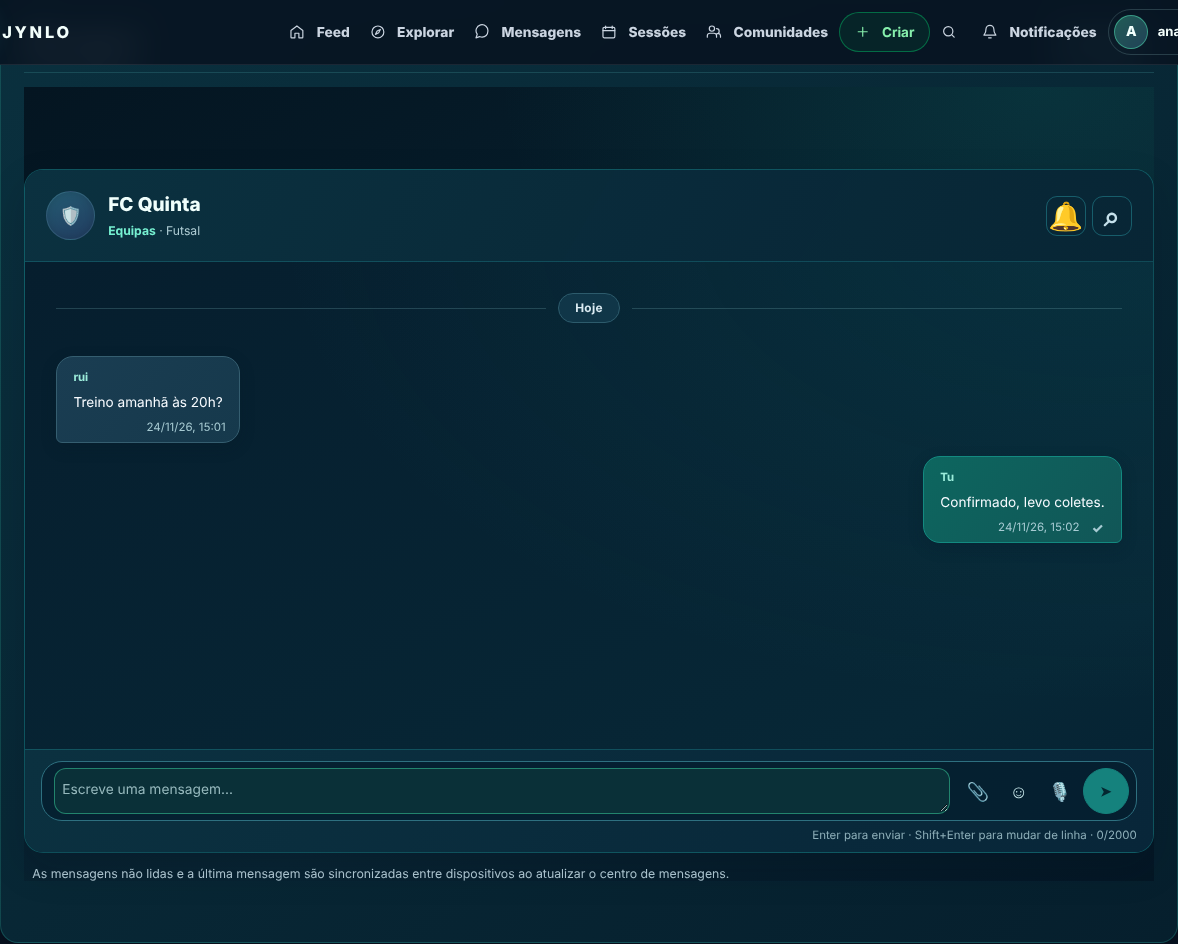
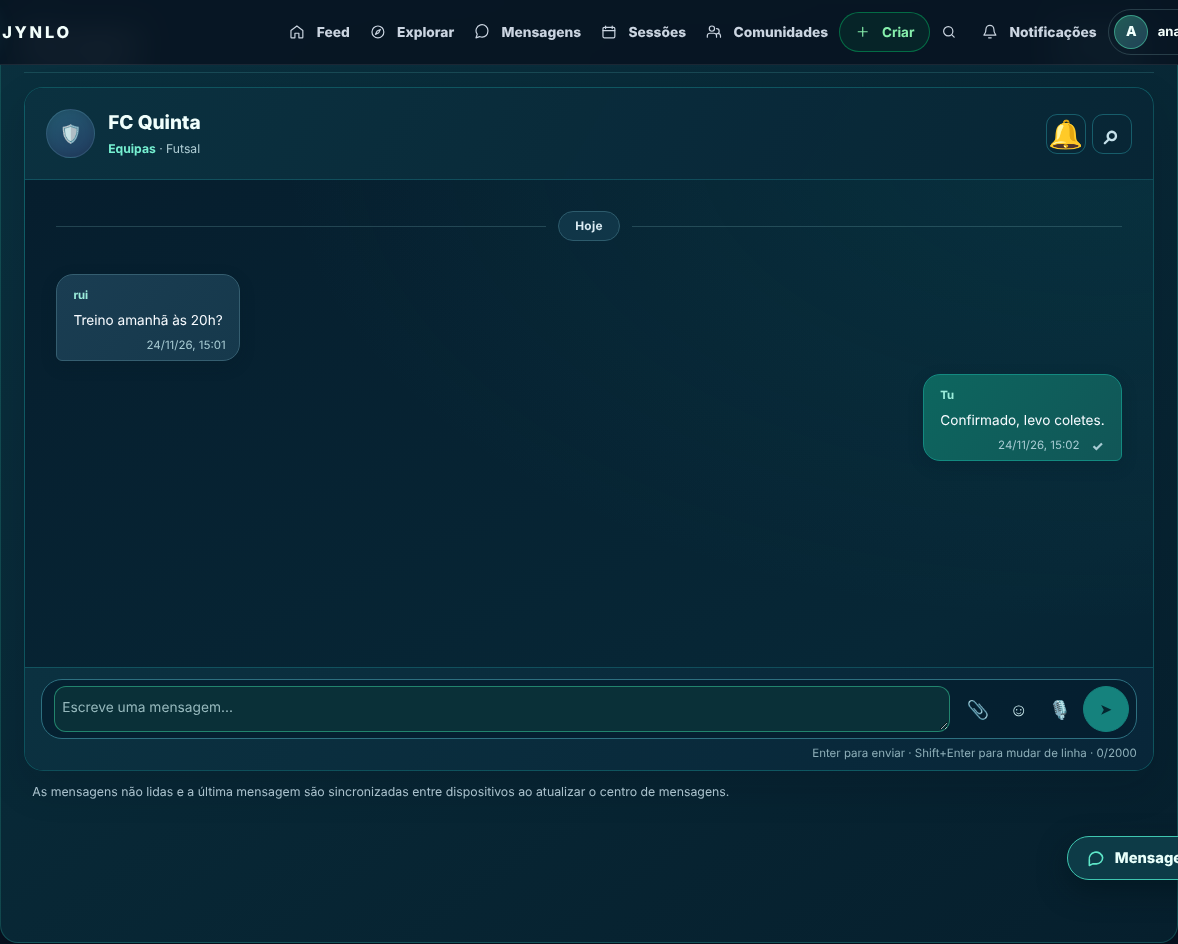
Floating Messages window (desktop): chat from any page without leaving it; embedded chats without page padding
Claude-Session: https://claude.ai/code/session_01NCG6nkiBEPLc5cBAmUeyUP

diff --git a/src/app/shared/chat-dock/chat-dock.component.ts b/src/app/shared/chat-dock/chat-dock.component.ts
@@ -1,0 +1,105 @@
+import { ChangeDetectionStrategy, Component, HostListener, OnDestroy, OnInit } from '@angular/core';
+import { NavigationEnd, Router, RouterLink } from '@angular/router';
+import { filter, Subscription } from 'rxjs';
+import { TranslatePipe } from '../../i18n/translate.pipe';
+import { AuthenticationService } from '../../services/authethication.service';
+import { MessagesCenterComponent } from '../../pages/messages-center/messages-center.component';
+
+const OPEN_KEY = 'jynlo-chat-dock-open';
+const MIN_WIDTH = 1024;
+
+/**
+ * A small Messages window in the bottom-right corner (desktop only), so a chat
+ * can be used without leaving the page. It is the same inbox, in a compact mode.
+ */
+@Component({
+  selector: 'app-chat-dock',
+  standalone: true,
+  imports: [TranslatePipe, RouterLink, MessagesCenterComponent],
+  changeDetection: ChangeDetectionStrategy.Eager,
+  template: `
+    @if (available) {
+      @if (!open) {
+        <button type="button" class="chat-dock-pill" (click)="toggle(true)" [attr.aria-label]="'Abrir mensagens' | t">
+          <svg viewBox="0 0 24 24" fill="none" stroke="currentColor" stroke-width="1.9" stroke-linecap="round" stroke-linejoin="round" aria-hidden="true">
+            <path d="M20 11.5a7.5 7.5 0 0 1-7.5 7.5H8l-4 2v-6.3A7.5 7.5 0 1 1 20 11.5Z"/></svg>
+          <span>{{ 'Mensagens' | t }}</span>
+        </button>
+      }
+      @if (started) {
+        <section class="chat-dock" [hidden]="!open" role="dialog" [attr.aria-label]="'Mensagens' | t">
+          <header class="chat-dock__head">
+            <strong>{{ 'Mensagens' | t }}</strong>
+            <a class="chat-dock__icon" routerLink="/menu/messages" (click)="toggle(false)"
+              [attr.aria-label]="'Abrir em ecrã inteiro' | t" [title]="'Abrir em ecrã inteiro' | t">
+              <svg viewBox="0 0 24 24" fill="none" stroke="currentColor" stroke-width="1.9" stroke-linecap="round" aria-hidden="true">
+                <path d="M4 9V4h5M20 9V4h-5M4 15v5h5M20 15v5h-5"/></svg></a>
+            <button type="button" class="chat-dock__icon" (click)="toggle(false)"
+              [attr.aria-label]="'Minimizar' | t" [title]="'Minimizar' | t">
+              <svg viewBox="0 0 24 24" fill="none" stroke="currentColor" stroke-width="2" stroke-linecap="round" aria-hidden="true">
+                <path d="M6 6l12 12M18 6 6 18"/></svg></button>
+          </header>
+          <div class="chat-dock__body"><app-messages-center [dock]="true"></app-messages-center></div>
+        </section>
+      }
+    }
+  `,
+  styles: [`
+    :host{position:fixed;right:20px;bottom:20px;z-index:900;display:block}
+    .chat-dock-pill{display:inline-flex;align-items:center;gap:9px;padding:11px 18px;border-radius:999px;cursor:pointer;
+      border:1px solid #3fc6b0;background:#0d3b47;color:#e8fffa;font-weight:800;font-size:.92rem;
+      box-shadow:0 10px 28px #00121a88}
+    .chat-dock-pill:hover{background:#145564}
+    .chat-dock-pill svg{width:20px;height:20px;color:#5ee6c8}
+    .chat-dock{width:380px;height:min(600px,calc(100vh - 110px));display:flex;flex-direction:column;overflow:hidden;
+      border:1px solid #2f7380;border-radius:18px;background:#0a2734;box-shadow:0 18px 48px #00101899}
+    .chat-dock[hidden]{display:none}
+    .chat-dock__head{display:flex;align-items:center;gap:6px;padding:10px 10px 10px 16px;border-bottom:1px solid #24525e}
+    .chat-dock__head strong{flex:1;color:#f2fdff;font-size:1rem}
+    .chat-dock__icon{width:34px;height:34px;display:grid;place-items:center;border-radius:10px;border:0;background:transparent;
+      color:#d5f3ef;cursor:pointer}
+    .chat-dock__icon:hover{background:#174b56}
+    .chat-dock__icon svg{width:19px;height:19px}
+    .chat-dock__body{flex:1;min-height:0;overflow:hidden}
+    .chat-dock__body > app-messages-center{display:block;height:100%}
+  `]
+})
+export class ChatDockComponent implements OnInit, OnDestroy {
+  open = false;
+  /** The inbox is created on first open, and then kept so drafts and the chosen chat survive. */
+  started = false;
+  available = false;
+  private url = '';
+  private sub?: Subscription;
+
+  constructor(private readonly router: Router, private readonly auth: AuthenticationService) {}
+
+  ngOnInit(): void {
+    this.url = this.router.url;
+    this.sub = this.router.events.pipe(filter(event => event instanceof NavigationEnd))
+      .subscribe(event => { this.url = (event as NavigationEnd).urlAfterRedirects; this.refresh(); });
+    let remembered = false;
+    try { remembered = sessionStorage.getItem(OPEN_KEY) === '1'; } catch { /* private mode */ }
+    this.refresh();
+    if (remembered && this.available) this.toggle(true);
+  }
+
+  ngOnDestroy(): void { this.sub?.unsubscribe(); }
+
+  @HostListener('window:resize')
+  refresh(): void {
+    const wide = typeof window !== 'undefined' && window.innerWidth >= MIN_WIDTH;
+    const onMessages = /^\/menu\/messages(\/|\?|$)/.test(this.url);
+    const guestPage = /^\/(login|register|welcome)(\/|\?|$)/.test(this.url);
+    const signedIn = this.auth.isLoggedIn();
+    this.available = wide && signedIn && !onMessages && !guestPage;
+    // Leaving the page for the full Messages screen ends this copy of the inbox.
+    if (!this.available) { this.started = false; this.open = false; }
+  }
+
+  toggle(open: boolean): void {
+    this.open = open;
+    if (open) this.started = true;
+    try { sessionStorage.setItem(OPEN_KEY, open ? '1' : '0'); } catch { /* ignore */ }
+  }
+}

diff --git a/src/app/pages/messages-center/messages-center-embedded.css b/src/app/pages/messages-center/messages-center-embedded.css
@@ -90,3 +90,29 @@
 }
 /* Footer shortcuts wrap instead of cutting "As minhas comunidades". */
 .inbox-side-footer a{white-space:normal;text-align:center;line-height:1.25;min-width:0}
+
+/* Floating chat window: one column, list first, then the chosen conversation. */
+.inbox-page.inbox-dock{min-height:0;height:100%;padding:0;background:transparent}
+.inbox-dock .inbox-shell{max-width:none;width:100%;height:100%}
+.inbox-dock .inbox-layout{display:block;height:100%;min-height:0;border:0;border-radius:0;box-shadow:none}
+.inbox-dock .inbox-sidebar{height:100%;max-height:none;border:0;border-radius:0;display:flex;flex-direction:column}
+.inbox-dock .inbox-side-heading,.inbox-dock .inbox-side-footer,.inbox-dock .inbox-unread-note{display:none}
+.inbox-dock .inbox-side-top{padding:10px 12px 6px}
+.inbox-dock .inbox-filters{flex-wrap:nowrap;overflow-x:auto;scrollbar-width:none}
+.inbox-dock .inbox-detail{display:none}
+.inbox-dock.inbox-dock--open .inbox-sidebar{display:none}
+.inbox-dock.inbox-dock--open .inbox-detail{display:flex;flex-direction:column;height:100%;min-height:0;border:0;border-radius:0}
+.inbox-dock .inbox-detail-heading{padding:8px 10px;gap:8px;flex-wrap:nowrap}
+.inbox-dock .inbox-message-log{min-height:0;max-height:none;flex:1 1 auto;padding:12px}
+.inbox-dock .inbox-composer{padding:8px 10px}
+.inbox-dock .inbox-composer-bottom{display:none}
+.inbox-dock .inbox-bubble{max-width:86%;min-width:90px}
+.inbox-dock-back{width:34px;height:34px;flex:none;display:grid;place-items:center;border-radius:50%;
+ border:1px solid #2e6672;background:transparent;color:#c7e6e9;font-size:1.05rem;cursor:pointer}
+.inbox-dock-back:hover{background:#1e5862}
+/* Embedded and floating copies live inside another page: no full-page padding or backdrop. */
+:host .inbox-page.jynlo-secondary.inbox-embedded,:host .inbox-page.jynlo-secondary.inbox-dock{padding:0;background:transparent}
+:host .inbox-page.jynlo-secondary.inbox-dock .inbox-shell,:host .inbox-page.jynlo-secondary.inbox-dock .inbox-layout{width:100%;height:100%;margin:0;border:0;border-radius:0;box-shadow:none;background:transparent}
+:host .inbox-page.jynlo-secondary.inbox-dock .inbox-sidebar,:host .inbox-page.jynlo-secondary.inbox-dock .inbox-detail{border:0;border-radius:0;box-shadow:none}
+:host .inbox-page.jynlo-secondary.inbox-dock{height:100%}
+.inbox-dock .inbox-sidebar .inbox-entries,.inbox-dock .inbox-sidebar app-inbox-conversation-list{flex:1 1 auto;min-height:0;overflow-y:auto}

diff --git a/src/app/pages/messages-center/messages-center.component.ts b/src/app/pages/messages-center/messages-center.component.ts
@@ -68,6 +68,8 @@ export class MessagesCenterComponent implements OnInit, OnDestroy, AfterViewChec
   @Input() embeddedCommunityId: number | null = null;
   /** Same for a team's "Mensagens" tab: the team chat is the Messages conversation. */
   @Input() embeddedTeamId: number | null = null;
+  /** Compact single-column mode for the floating chat window (list, then one conversation). */
+  @Input() dock = false;
   get embedded(): boolean { return this.embeddedCommunityId !== null || this.embeddedTeamId !== null; }
   private embeddedReady = false;
   ngOnChanges(changes: SimpleChanges): void {
@@ -1065,6 +1067,40 @@ export class MessagesCenterComponent implements OnInit, OnDestroy, AfterViewChec
     this.selectedKey = null;
     this.conversations = this.conversations.filter(item => item.key !== conversation.key);
     this.sessionKickoffs.delete(Number(conversation.id));
+  }
+
+  /** Dock mode: go back from a conversation to the list, keeping its draft. */
+  backToList(): void {
+    if (!this.selectedKey) return;
+    this.drafts.set(this.selectedKey, this.draft);
+    if (this.replyingTo?.key === this.selectedKey && this.replyingTo.id > 0)
+      this.replyDrafts.set(this.selectedKey, this.replyingTo);
+    ++this.mutationVersion;
+    this.cancelMessageMutation();
+    this.typing.stop();
+    this.cancelVoiceRecording();
+    this.closeEmojiPicker();
+    this.closeSharePicker();
+    this.closeAttachmentMenu();
+    this.setSelectedAttachment(null);
+    this.selectedGif = null;
+    this.selectedShare = null;
+    this.selectedCallUp = null;
+    this.selectedPoll = null;
+    this.clearAttachmentRetry();
+    this.attachmentReady = false;
+    ++this.attachmentViewVersion;
+    this.clearAttachmentPreviews();
+    ++this.selectionVersion;
+    ++this.composerVersion;
+    this.resetMessageSearch();
+    this.selectedKey = null;
+    this.messages = [];
+    this.draft = '';
+    this.replyingTo = null;
+    this.previewLoading = false;
+    this.previewError = false;
+    this.composerAllowed = false;
   }
 
   selectConversation(conversation: InboxConversation): void {

diff --git a/src/app/pages/messages-center/messages-center.component.html b/src/app/pages/messages-center/messages-center.component.html
@@ -1,4 +1,4 @@
-<section class="inbox-page jynlo-c1 jynlo-secondary" [class.inbox-embedded]="embedded">
+<section class="inbox-page jynlo-c1 jynlo-secondary" [class.inbox-embedded]="embedded" [class.inbox-dock]="dock" [class.inbox-dock--open]="dock && !!selected">
   <div class="inbox-shell">
     <div class="inbox-layout">
       <aside class="inbox-sidebar" [attr.aria-label]="'inbox.listLabel' | t">
@@ -90,6 +90,10 @@
       <main class="inbox-detail" [class.inbox-detail--empty]="!selected">
         @if (selected; as conversation) {
           <header class="inbox-detail-heading">
+            @if (dock) {
+              <button type="button" class="inbox-dock-back" (click)="backToList()"
+                [attr.aria-label]="'Voltar às conversas' | t" [title]="'Voltar às conversas' | t">←</button>
+            }
             @if (conversation.kind === 'direct') {
               <button type="button" class="inbox-chat-identity inbox-contact-opener"
                   [attr.aria-label]="('chat.viewProfile' | t) + ': ' + conversation.title"

diff --git a/src/app/i18n/translations-en.ts b/src/app/i18n/translations-en.ts
@@ -8101,6 +8101,10 @@ export const EN: Record<string, string> = {
   'Plantel por Excel': 'Squad from Excel',
   'Já tens o plantel noutro sítio?': 'Already have your squad somewhere else?',
   'Fotografias ou vídeos': 'Photos or videos',
+  'Abrir mensagens': 'Open messages',
+  'Abrir em ecrã inteiro': 'Open full screen',
+  'Minimizar': 'Minimise',
+  'Voltar às conversas': 'Back to conversations',
   'Colar lista': 'Paste a list',
   'Aceitamos Excel (.xlsx, .xls), LibreOffice (.ods), CSV e TSV. No Google Sheets ou no Numbers: Ficheiro → Transferir/Exportar → Excel ou CSV.': 'We accept Excel (.xlsx, .xls), LibreOffice (.ods), CSV and TSV. In Google Sheets or Numbers: File → Download/Export → Excel or CSV.',
   'Um jogador por linha, por exemplo «10 João Silva» ou «João Silva; 10; Defesa». Também podes colar células copiadas de uma folha de cálculo.': 'One player per line, for example “10 João Silva” or “João Silva; 10; Defender”. You can also paste cells copied from a spreadsheet.',

diff --git a/src/app/app.component.ts b/src/app/app.component.ts
@@ -119,6 +119,12 @@ export class AppComponent implements OnInit, AfterViewInit, OnDestroy {
     }).catch(() => {
       // A transient chunk download failure must not crash the rest of Jynlo.
     });
+    // The floating Messages window (desktop) is its own chunk, loaded after boot.
+    if (typeof window !== 'undefined' && window.innerWidth >= 1024) {
+      void import('./shared/chat-dock/chat-dock.component').then(({ChatDockComponent}) => {
+        if (!this.disposed && this.callOverlayOutlet) this.callOverlayOutlet.createComponent(ChatDockComponent);
+      }).catch(() => { /* optional convenience only */ });
+    }
   }
 
   ngOnDestroy(): void {
